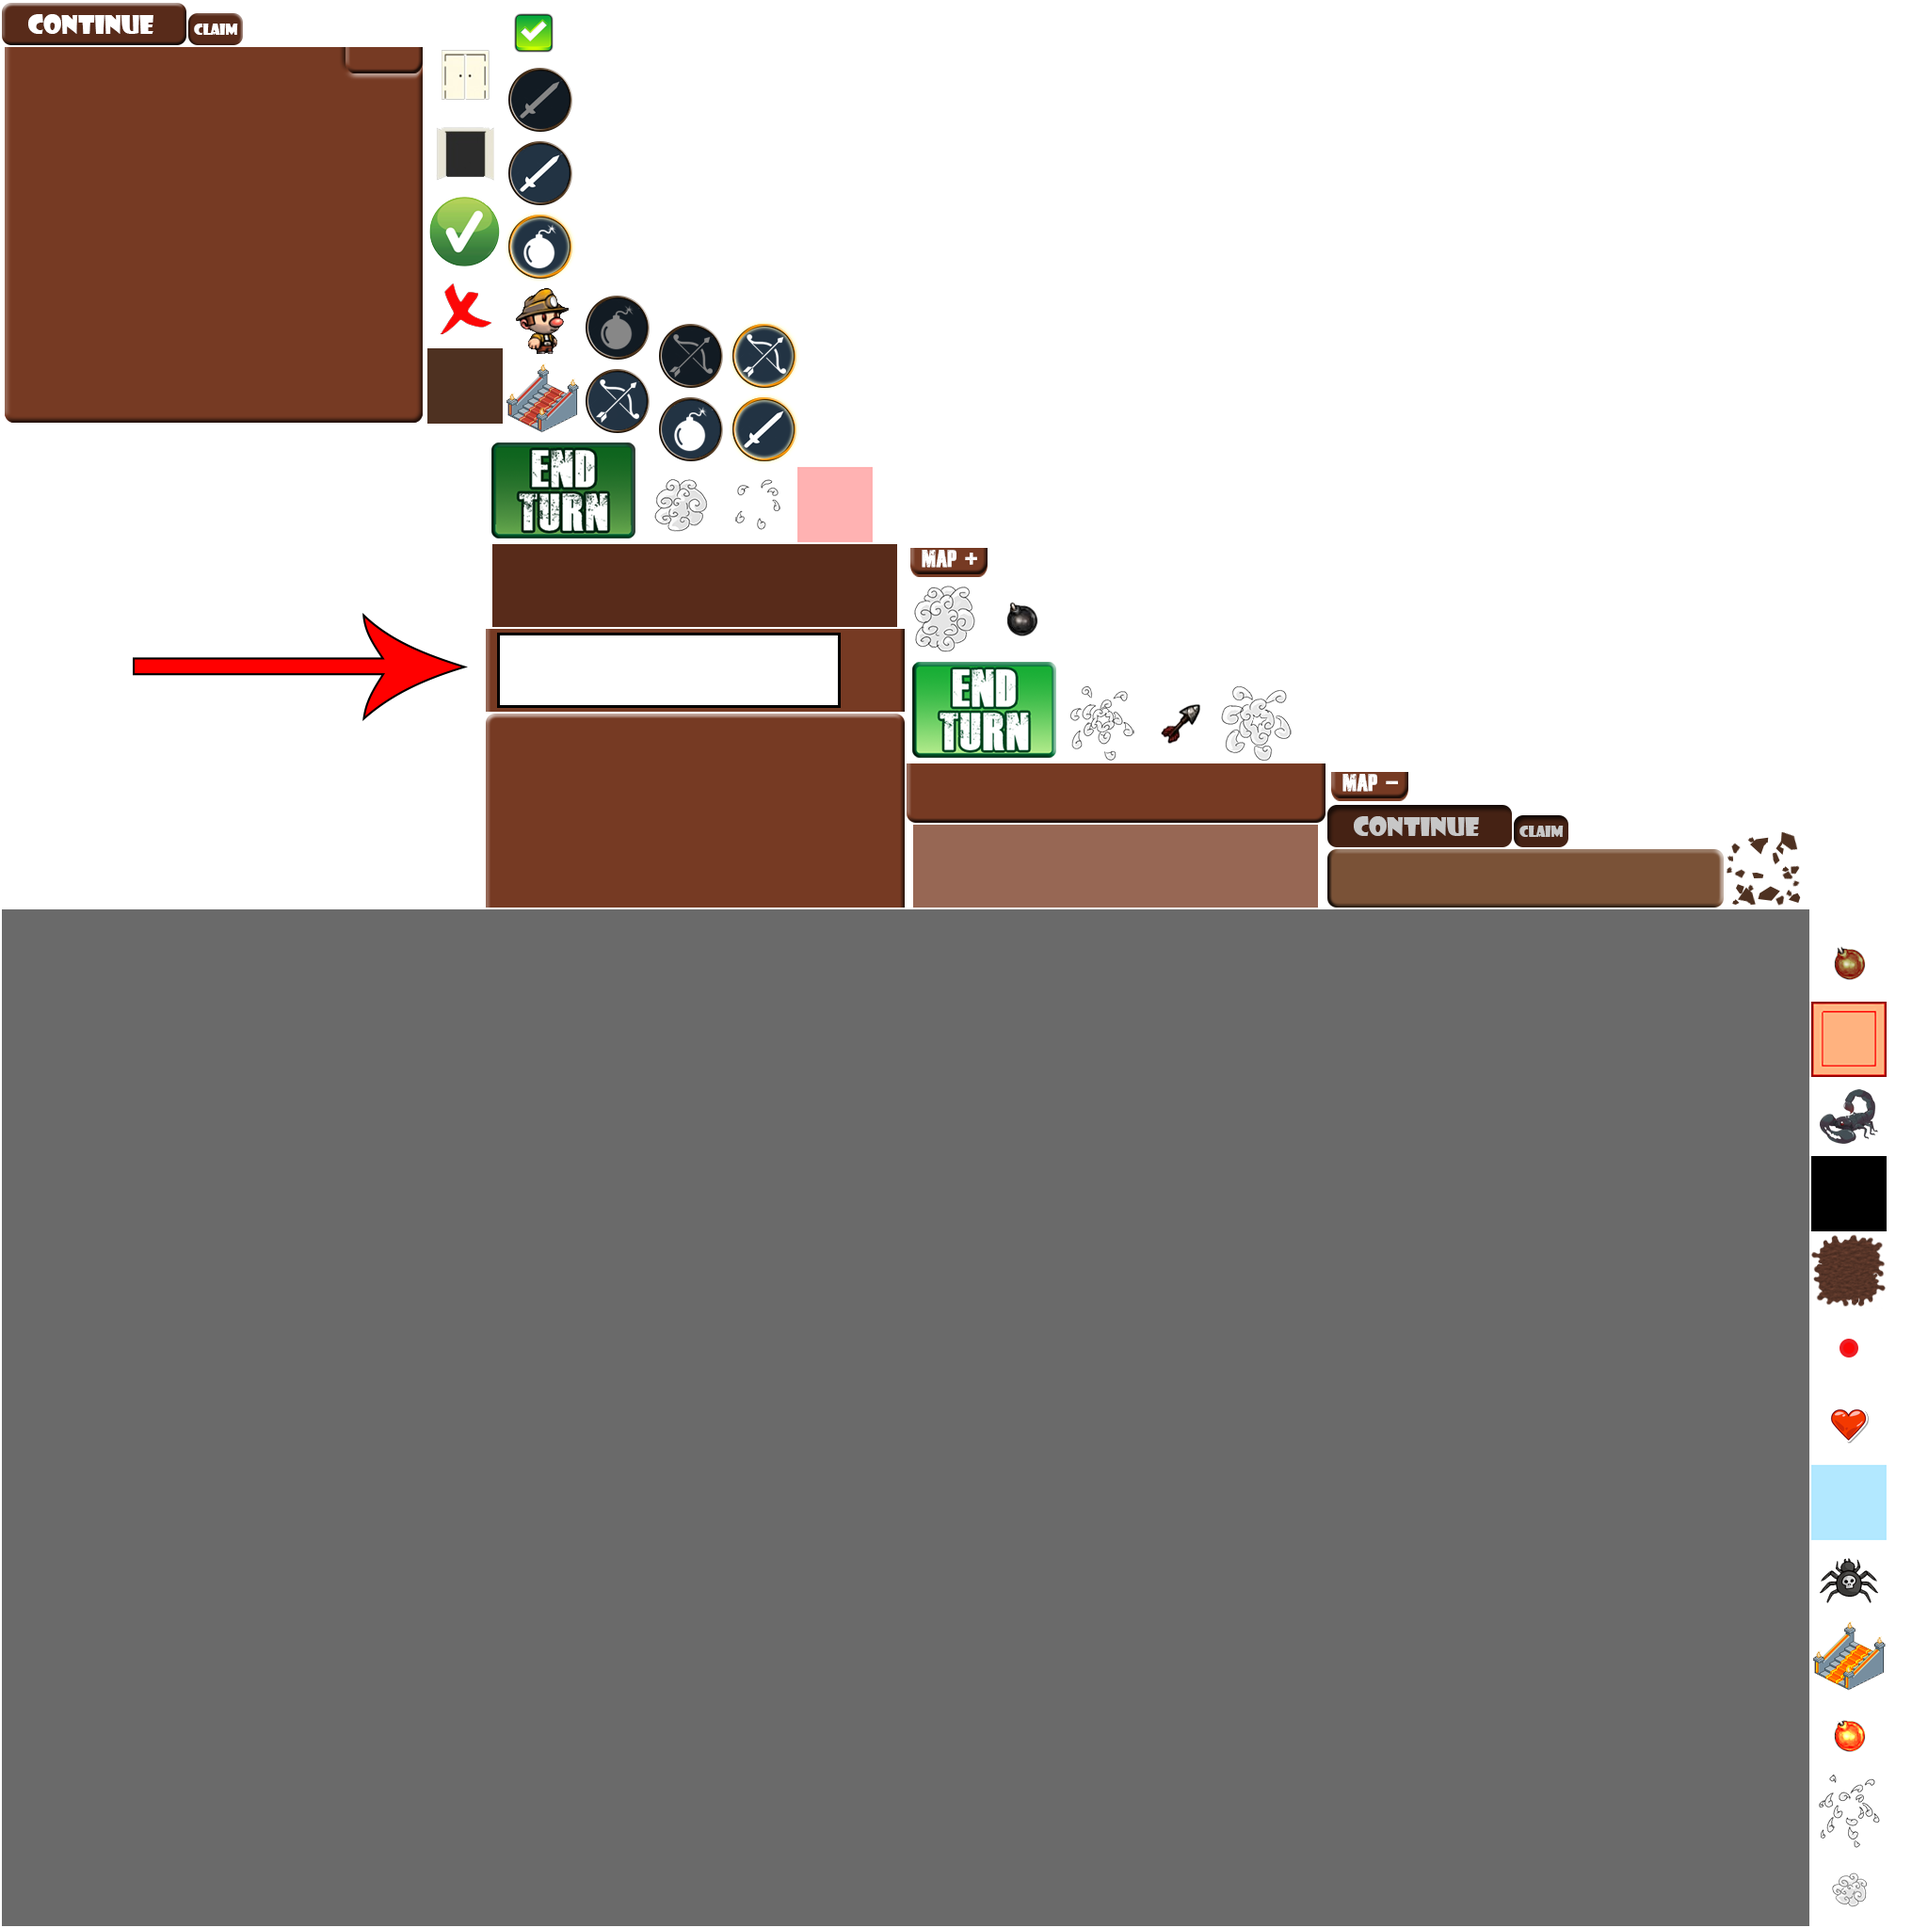
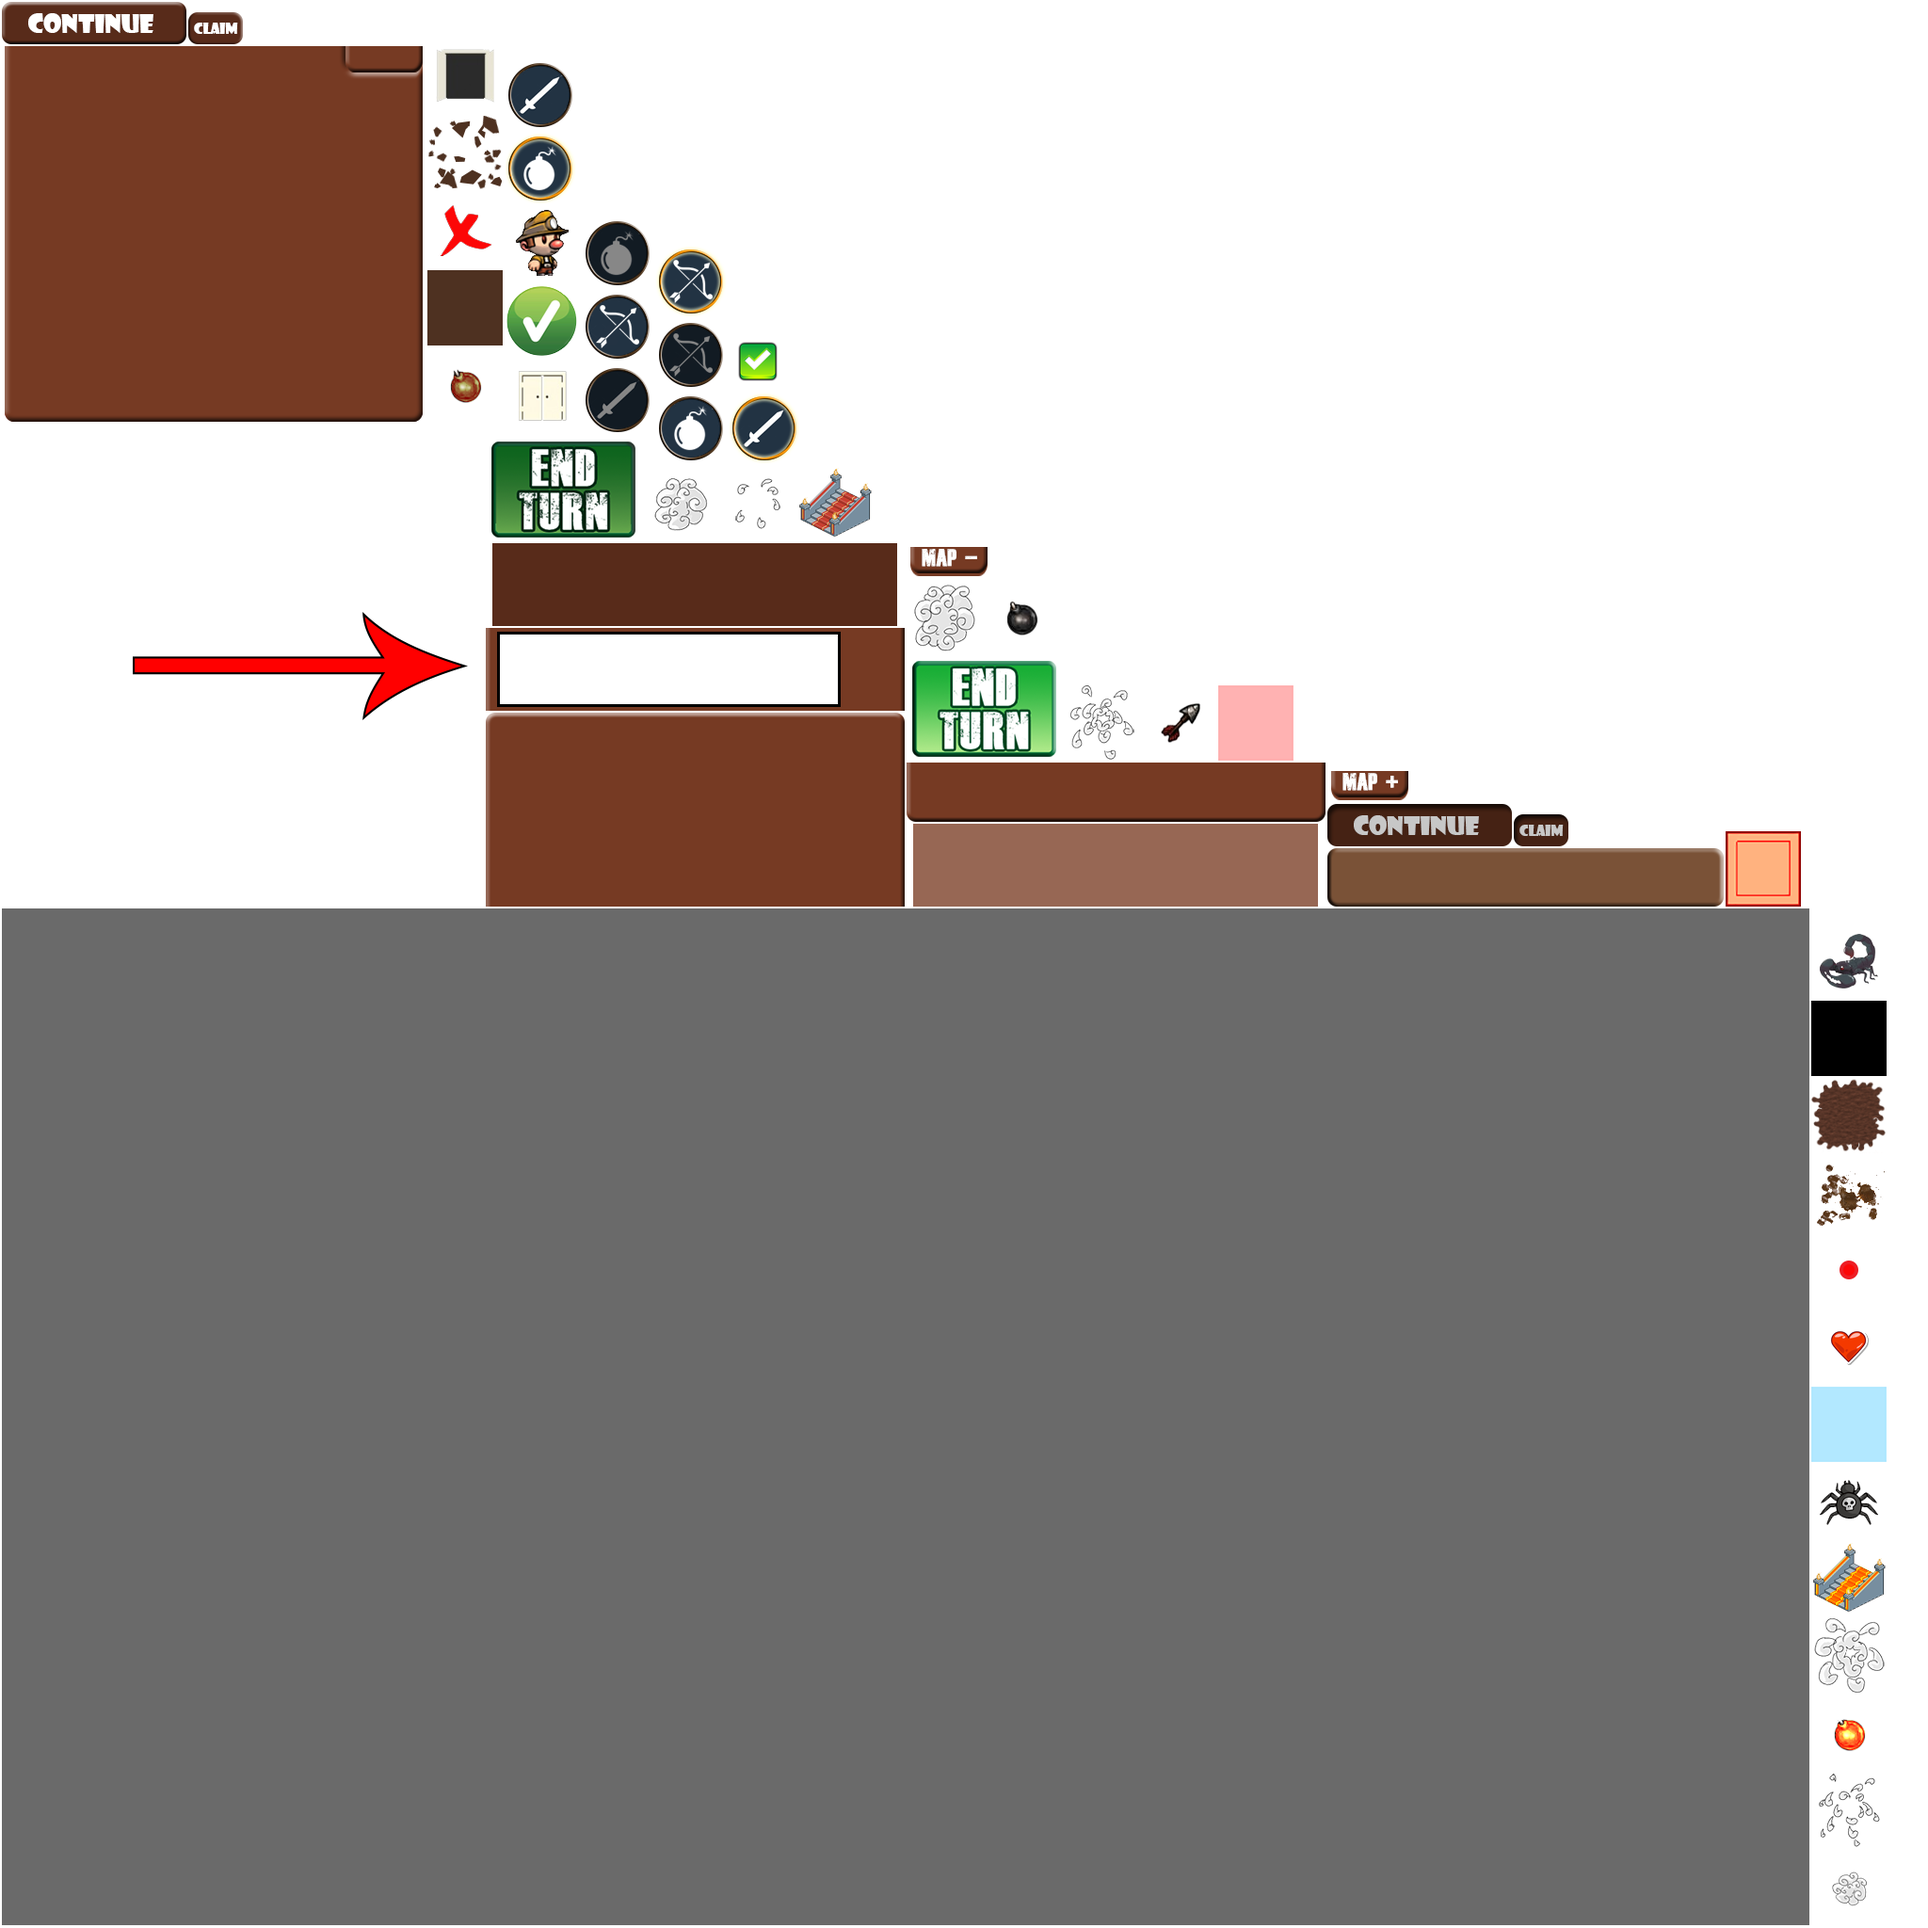
Added the mud destroyed texture

diff --git a/core/src/com/dokkaebistudio/tacticaljourney/factory/EntityFactory.java b/core/src/com/dokkaebistudio/tacticaljourney/factory/EntityFactory.java
@@ -170,7 +170,7 @@ public final class EntityFactory {
     	mudEntity.add(movableTilePos);
     	
     	SpriteComponent spriteCompo = engine.createComponent(SpriteComponent.class);
-    	Sprite s = new Sprite(Assets.getTexture(Assets.tile_mud));
+    	Sprite s = new Sprite(Assets.getTexture(Assets.mud));
     	spriteCompo.setSprite(s);
     	mudEntity.add(spriteCompo);
 		
@@ -179,6 +179,7 @@ public final class EntityFactory {
     	mudEntity.add(slowMovementCompo);
     	
     	DestructibleComponent destructibleCompo = engine.createComponent(DestructibleComponent.class);
+    	destructibleCompo.setDestroyedTexture(Assets.getTexture(Assets.mud_destroyed));
 		mudEntity.add(destructibleCompo);
     	
 		engine.addEntity(mudEntity);

diff --git a/core/src/com/dokkaebistudio/tacticaljourney/Assets.java b/core/src/com/dokkaebistudio/tacticaljourney/Assets.java
@@ -45,7 +45,8 @@ public class Assets {
 	public static final String wall_destroyed = "tile-wall-destroyed";
 
 	public static final String tile_pit = "tile-pit-test";
-	public static final String tile_mud = "tile-mud-test";
+	public static final String mud = "tile-mud-test";
+	public static final String mud_destroyed = "tile-mud-destroyed";
 	
 	public static final String exit = "exit";
 	public static final String entrance = "entrance";
